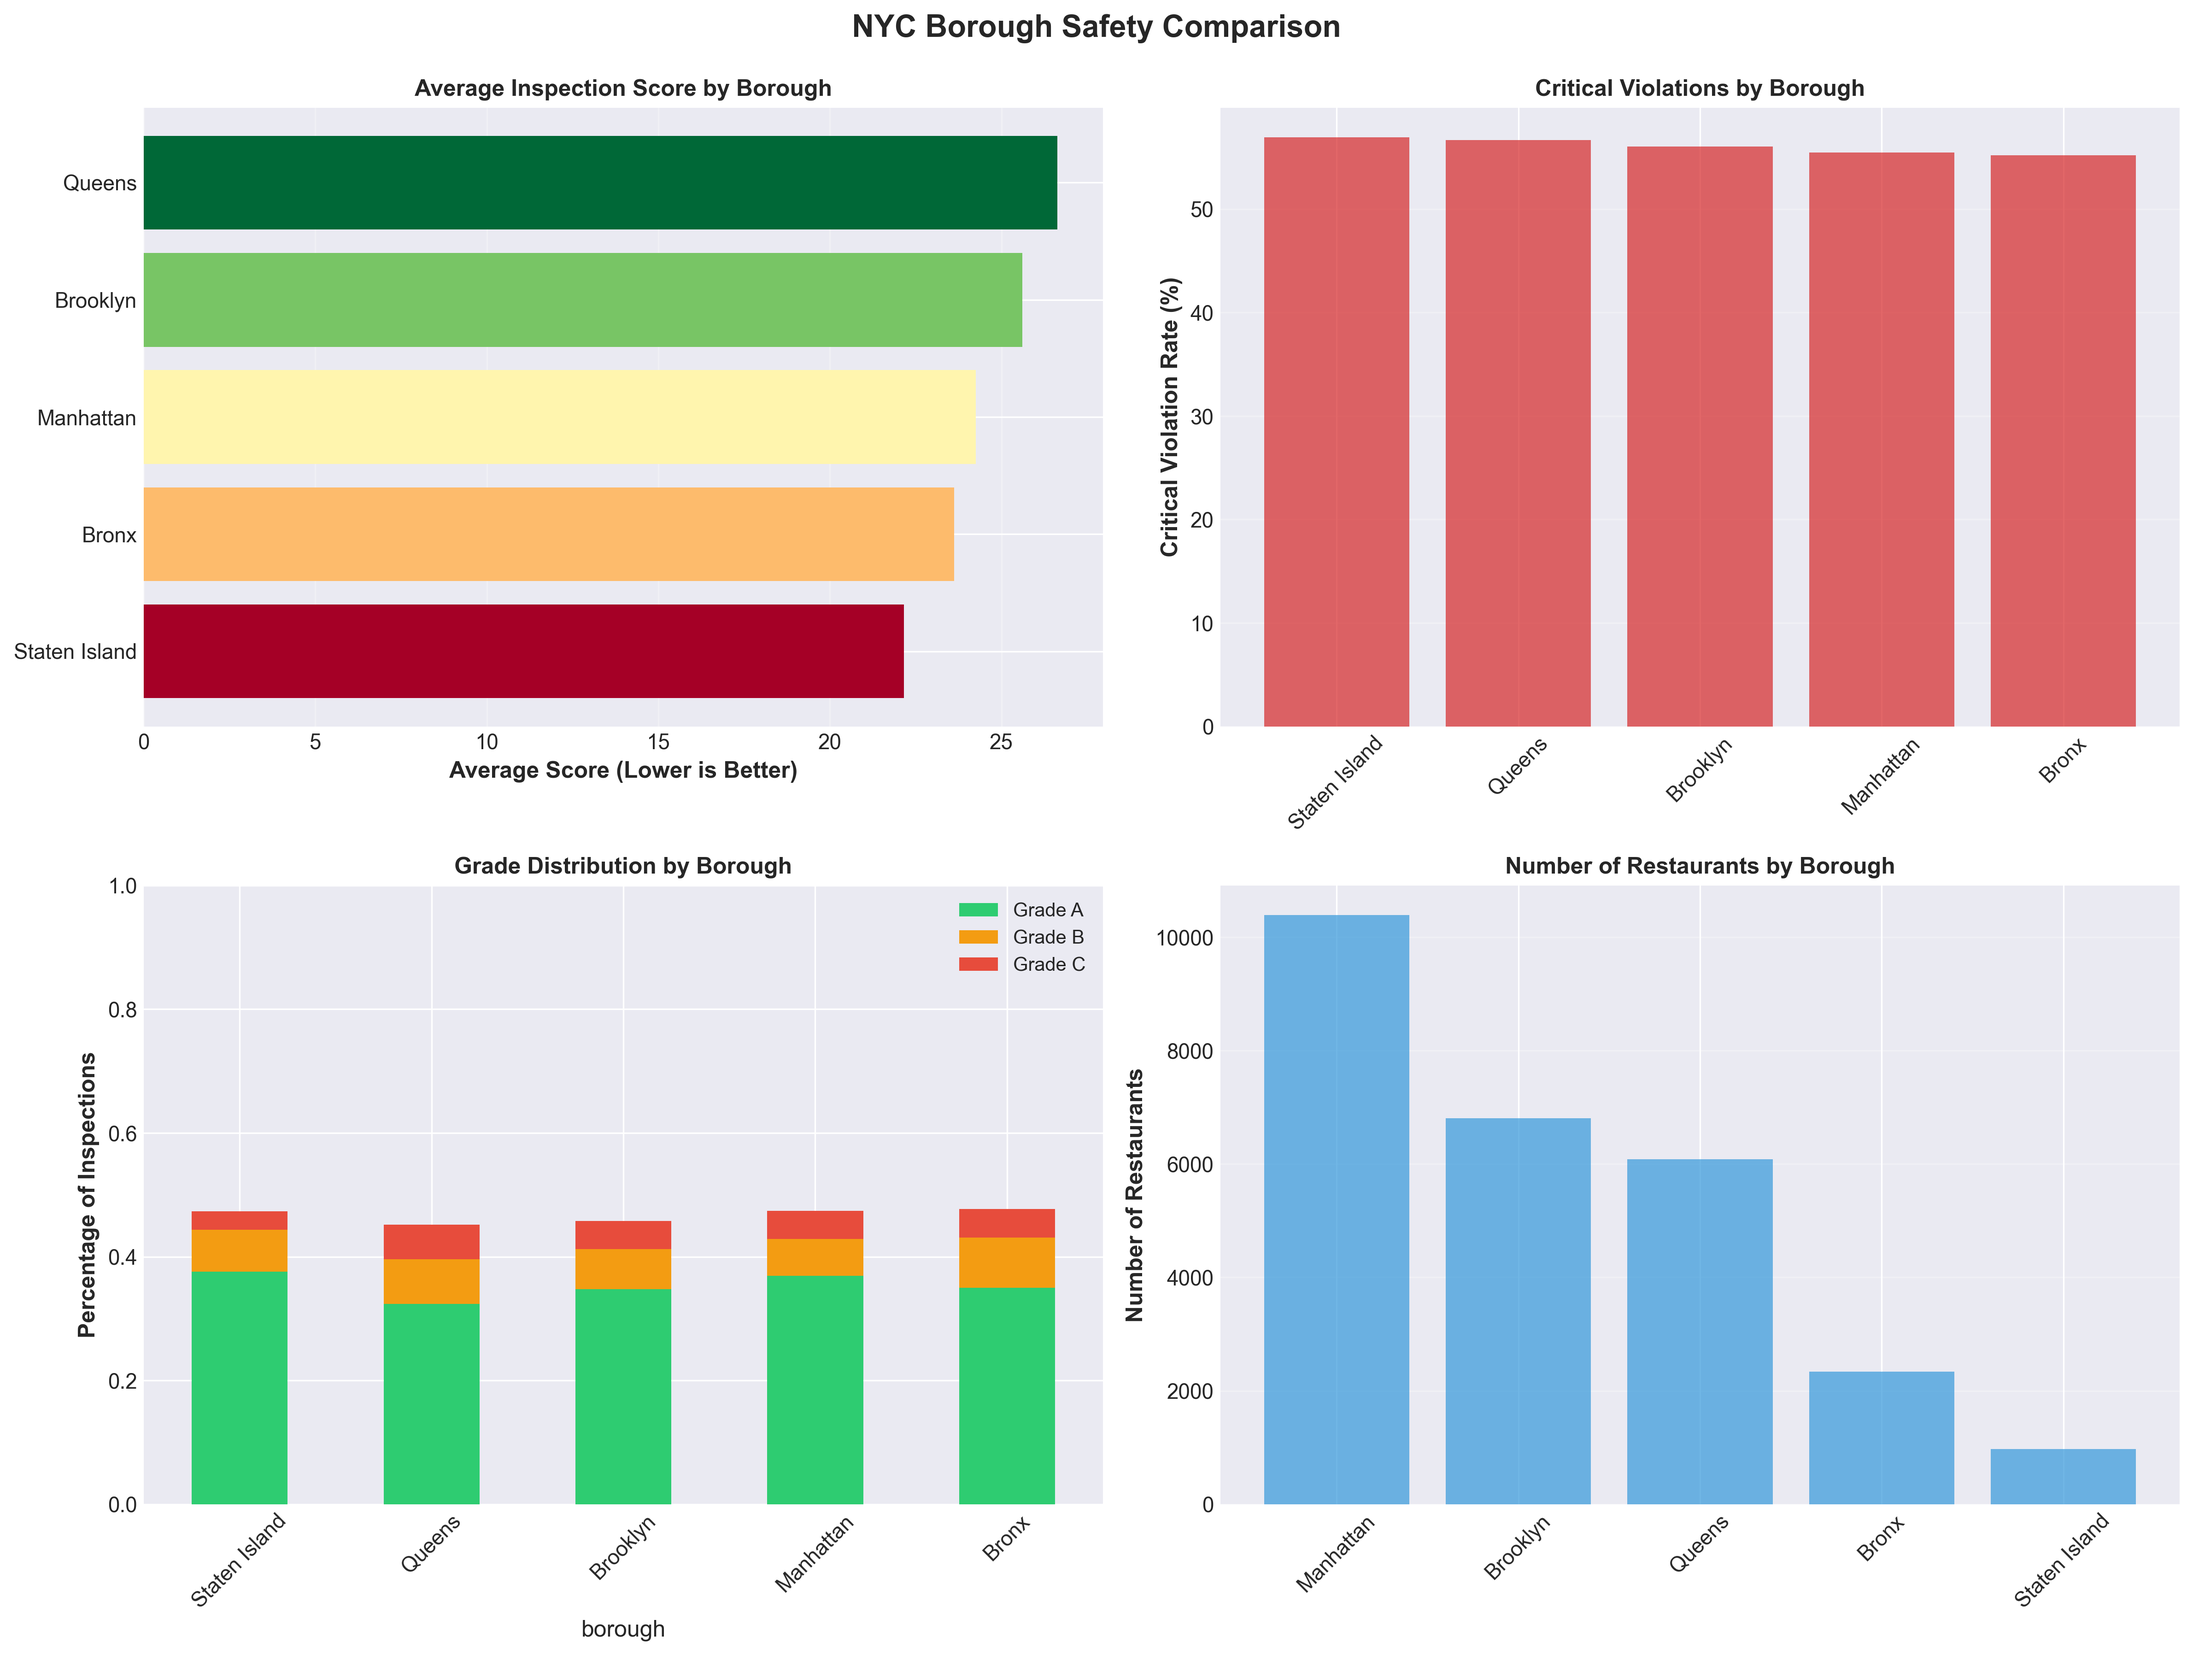
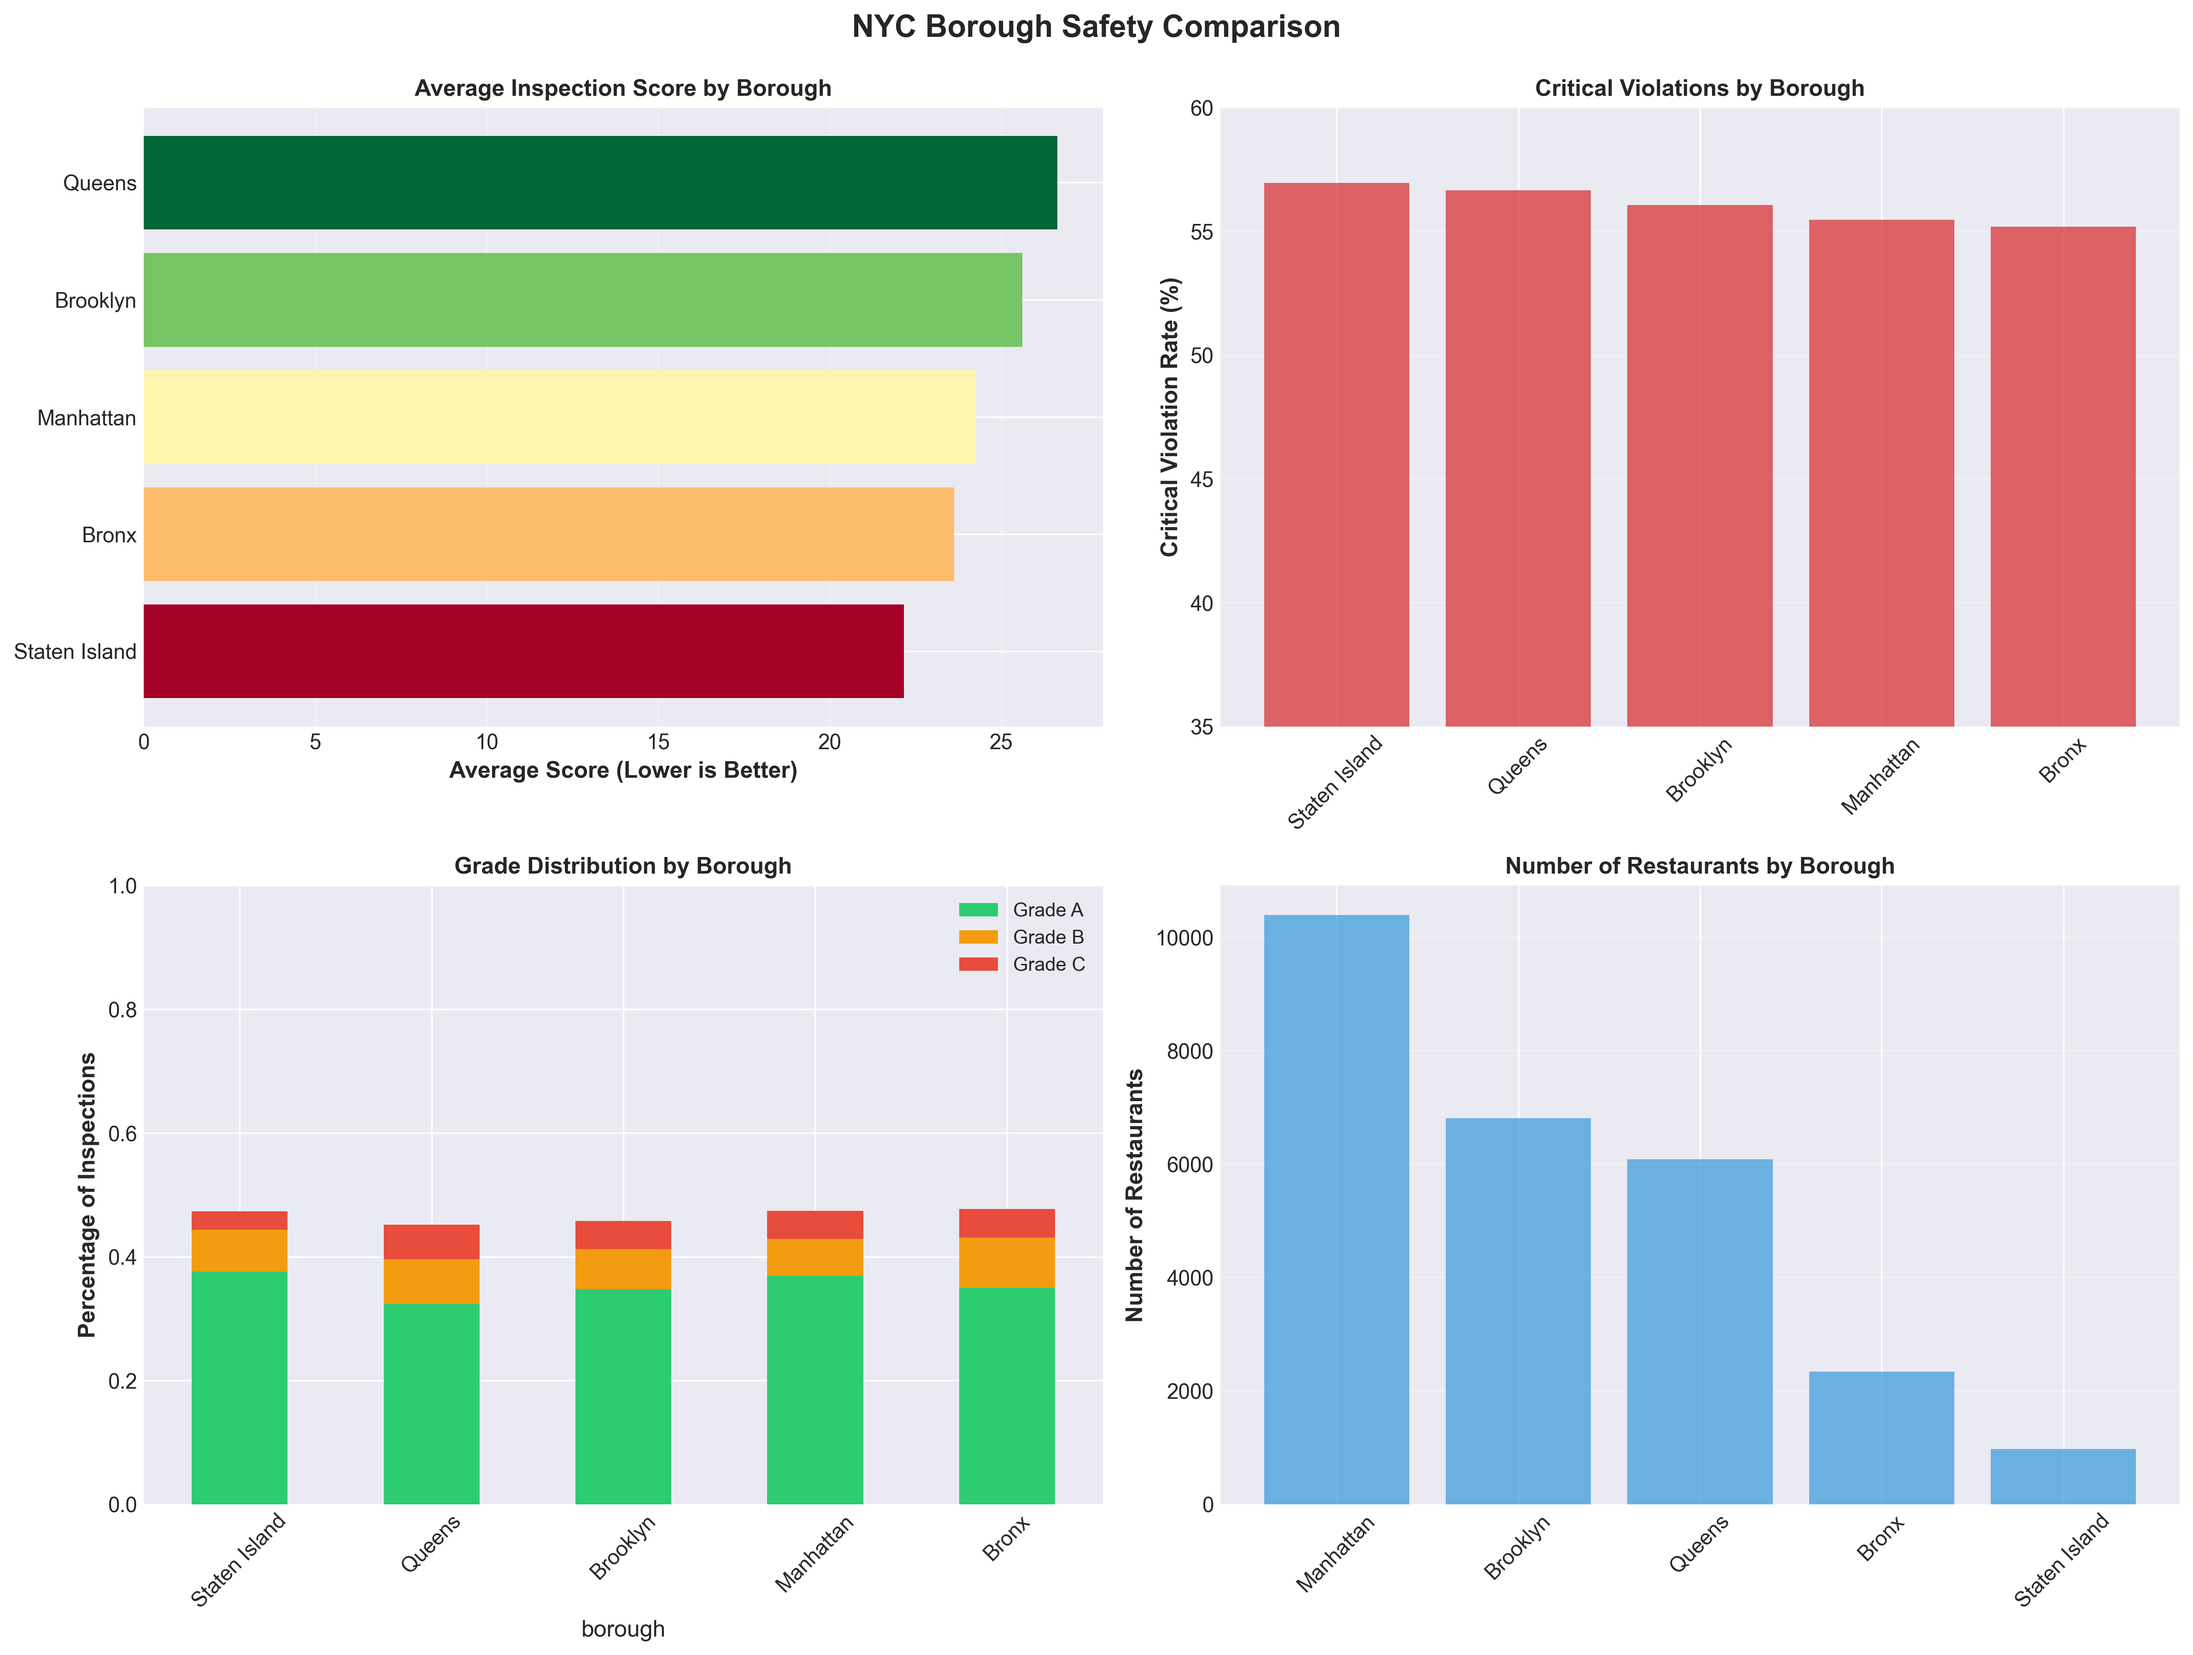
update visualizations

Changed region(s): [[0.5597, 0.0624, 0.995, 0.1559]]

diff --git a/visualization.py b/visualization.py
@@ -125,6 +125,7 @@ class InsightGenerator:
             ax.set_ylabel('Critical Violation Rate (%)', fontweight='bold')
             ax.set_title('Critical Violations by Borough', fontweight='bold', fontsize=12)
             ax.grid(axis='y', alpha=0.3)
+            ax.set_ylim(35,60)
             plt.setp(ax.xaxis.get_majorticklabels(), rotation=45)
             
             # grade distribution plot
@@ -306,12 +307,13 @@ class InsightGenerator:
                           color=plt.cm.Spectral(np.linspace(0, 1, len(top_violations))))
             
             wrapped_labels = [
-                f"{i+1}. " + "\n   ".join(textwrap.wrap(v, width=50))
+                f"{i+1}. " + "\n   ".join(textwrap.wrap(v, width=40))
                 for i, v in enumerate(top_violations['violation_category'])
             ]
 
             ax.set_yticks(range(len(top_violations)))
-            ax.set_yticklabels(wrapped_labels, fontsize=10)
+            ax.set_yticklabels(wrapped_labels, fontsize=10, ha='left')
+            ax.tick_params(axis='y', pad=190)
             
             ax.set_xlabel('Number of Violations Cited', fontweight='bold')
             ax.set_title('Top 10 Most Common Violations in NYC Restaurants\n(Systemic Food Safety Issues)', 
